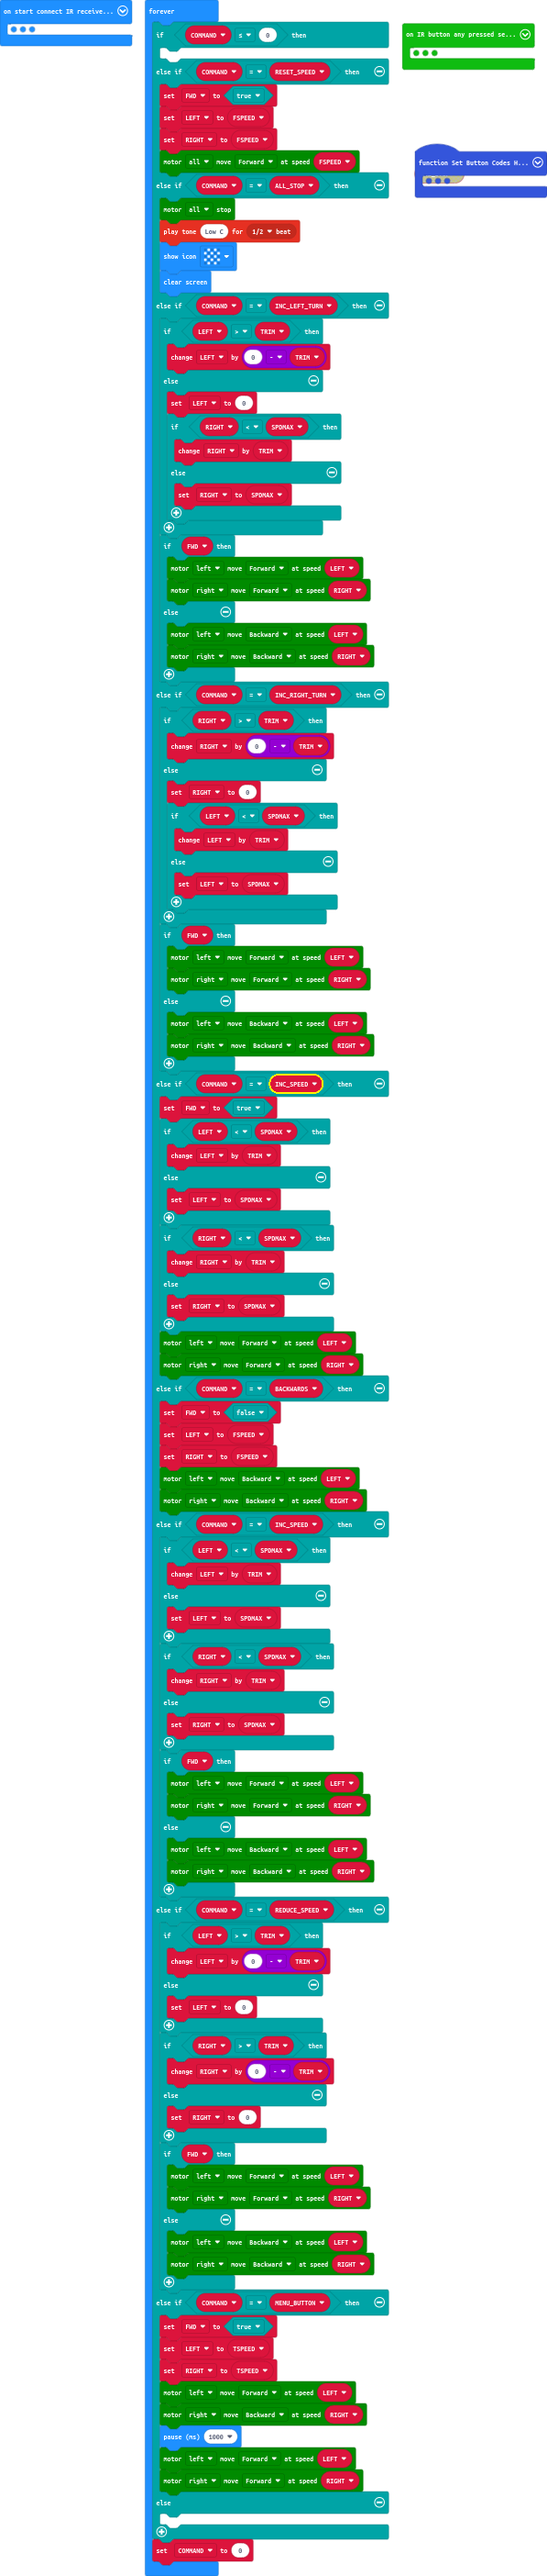
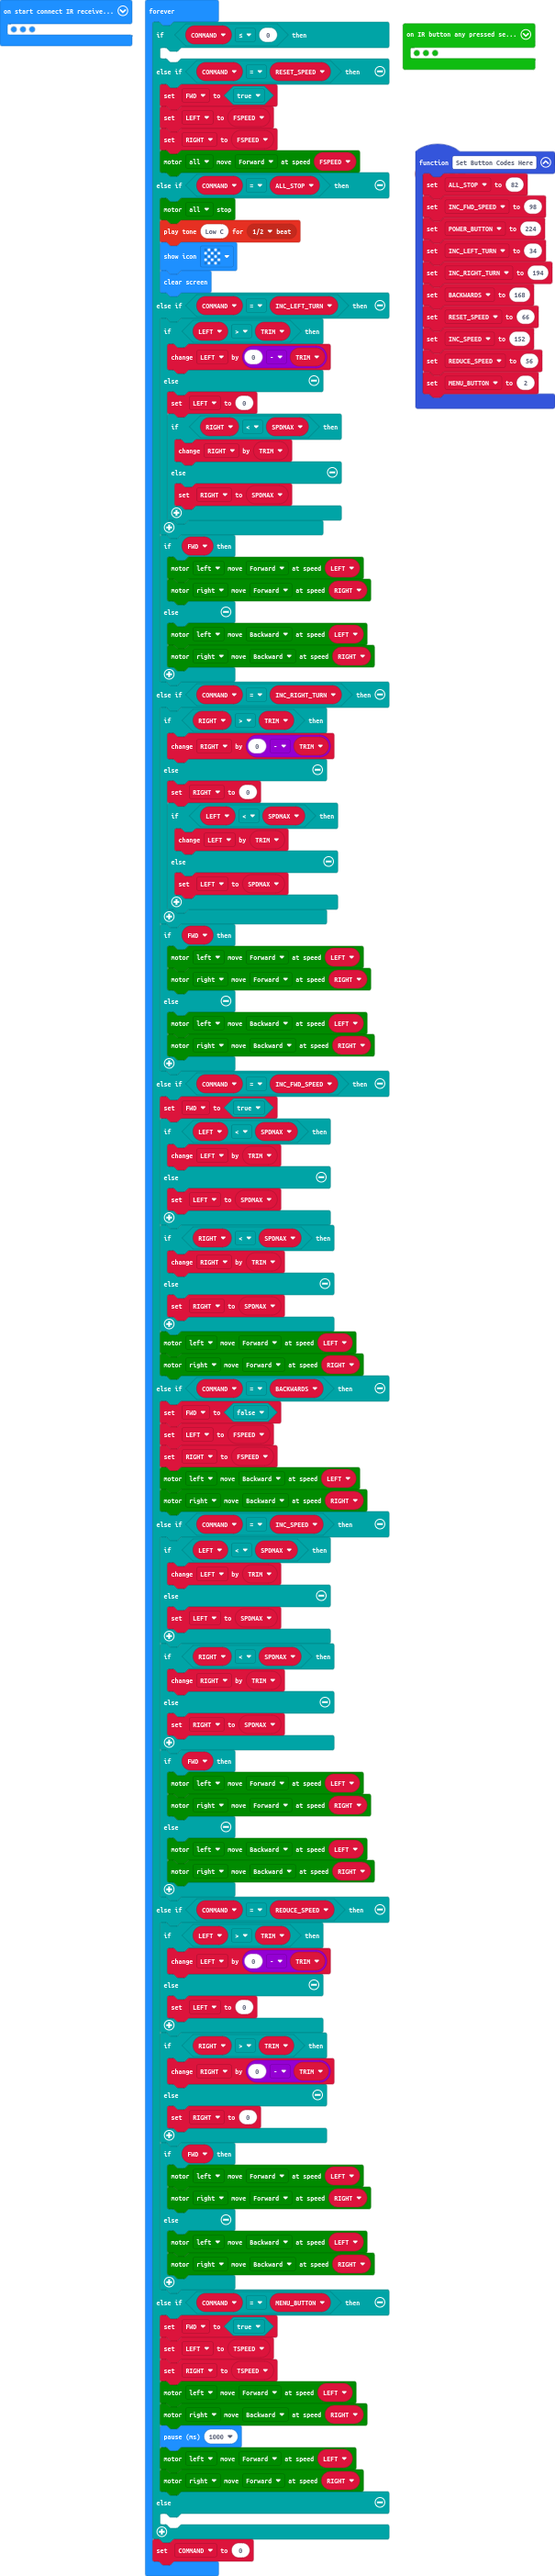
basic test passed need to alter trim etc

diff --git a/main.ts b/main.ts
@@ -8,10 +8,12 @@ function Set_Button_Codes_Here () {
     RESET_SPEED = 66
     INC_SPEED = 152
     REDUCE_SPEED = 56
+    MENU_BUTTON = 2
 }
 makerbit.onIrButton(IrButton.Any, IrButtonAction.Pressed, function () {
     COMMAND = makerbit.irButton()
 })
+let MENU_BUTTON = 0
 let REDUCE_SPEED = 0
 let INC_SPEED = 0
 let RESET_SPEED = 0
@@ -38,7 +40,6 @@ COMMAND = 0
 basic.clearScreen()
 led.enable(true)
 basic.forever(function () {
-    let MENU_BUTTON = 0
     if (COMMAND <= 0) {
     	
     } else if (COMMAND == RESET_SPEED) {
@@ -87,7 +88,7 @@ basic.forever(function () {
             maqueen.motorRun(maqueen.Motors.M1, maqueen.Dir.CCW, LEFT)
             maqueen.motorRun(maqueen.Motors.M2, maqueen.Dir.CCW, RIGHT)
         }
-    } else if (COMMAND == INC_SPEED) {
+    } else if (COMMAND == INC_FWD_SPEED) {
         FWD = true
         if (LEFT < SPDMAX) {
             LEFT += TRIM
